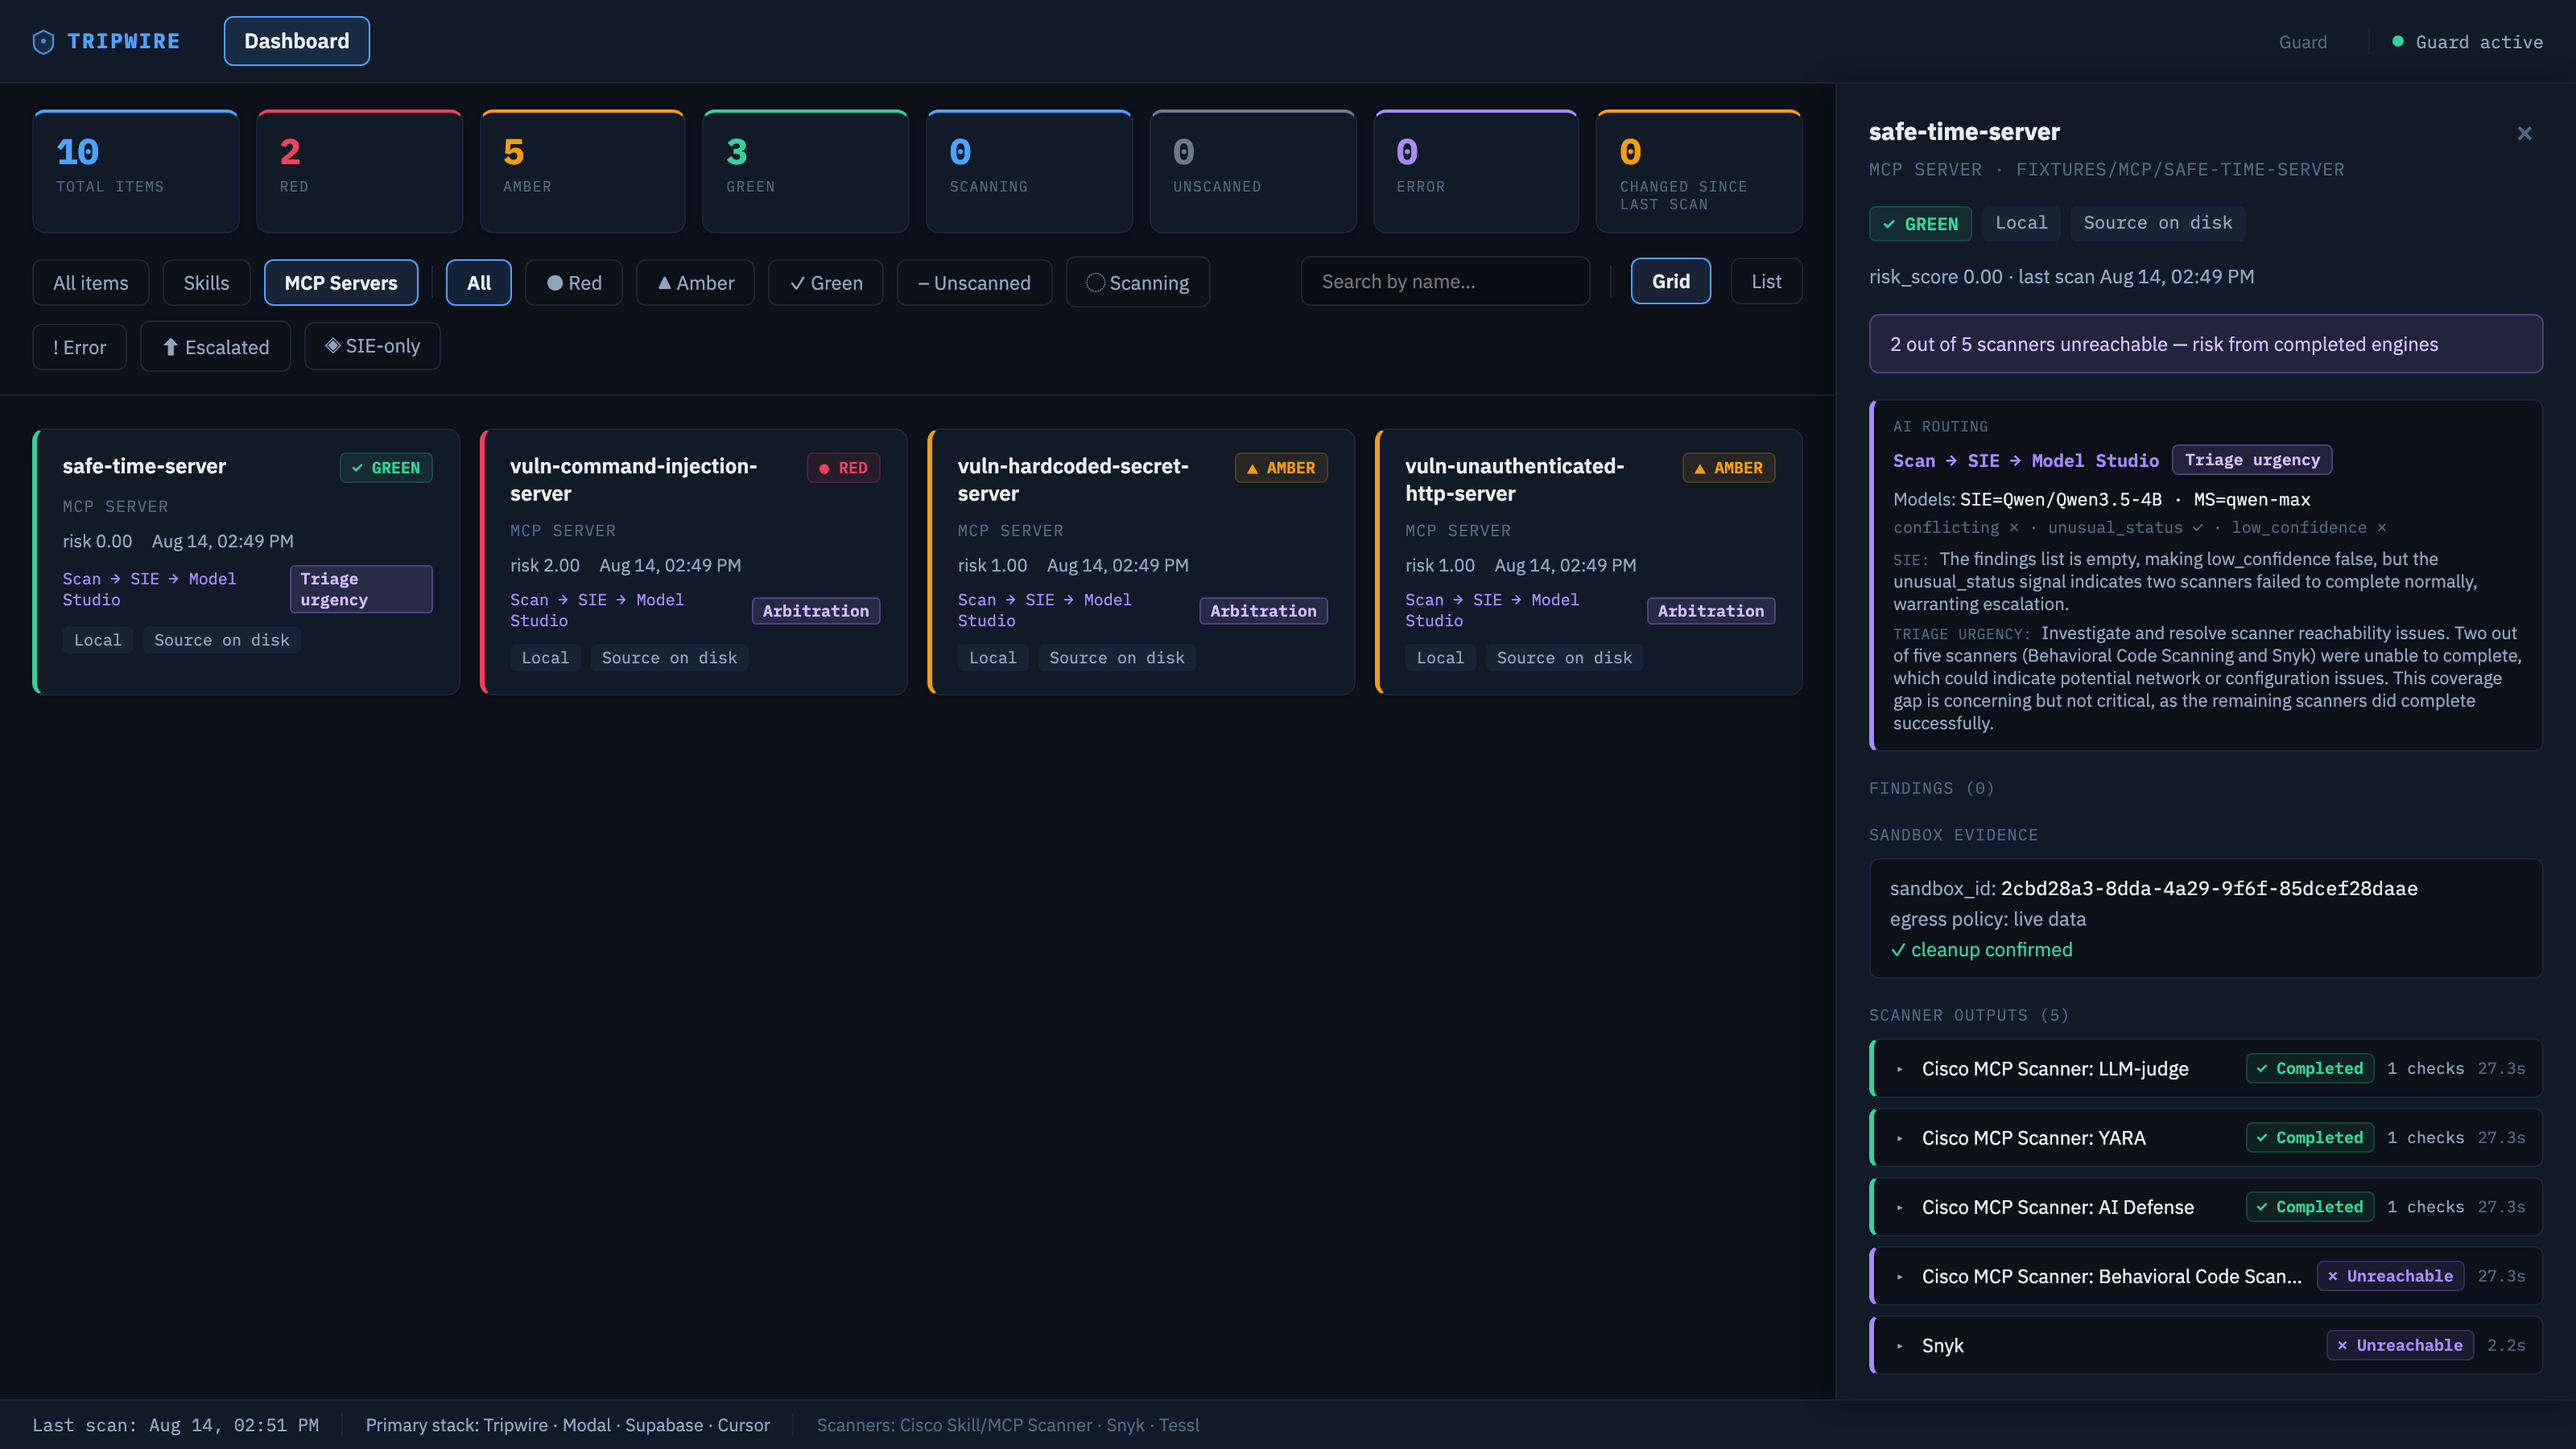
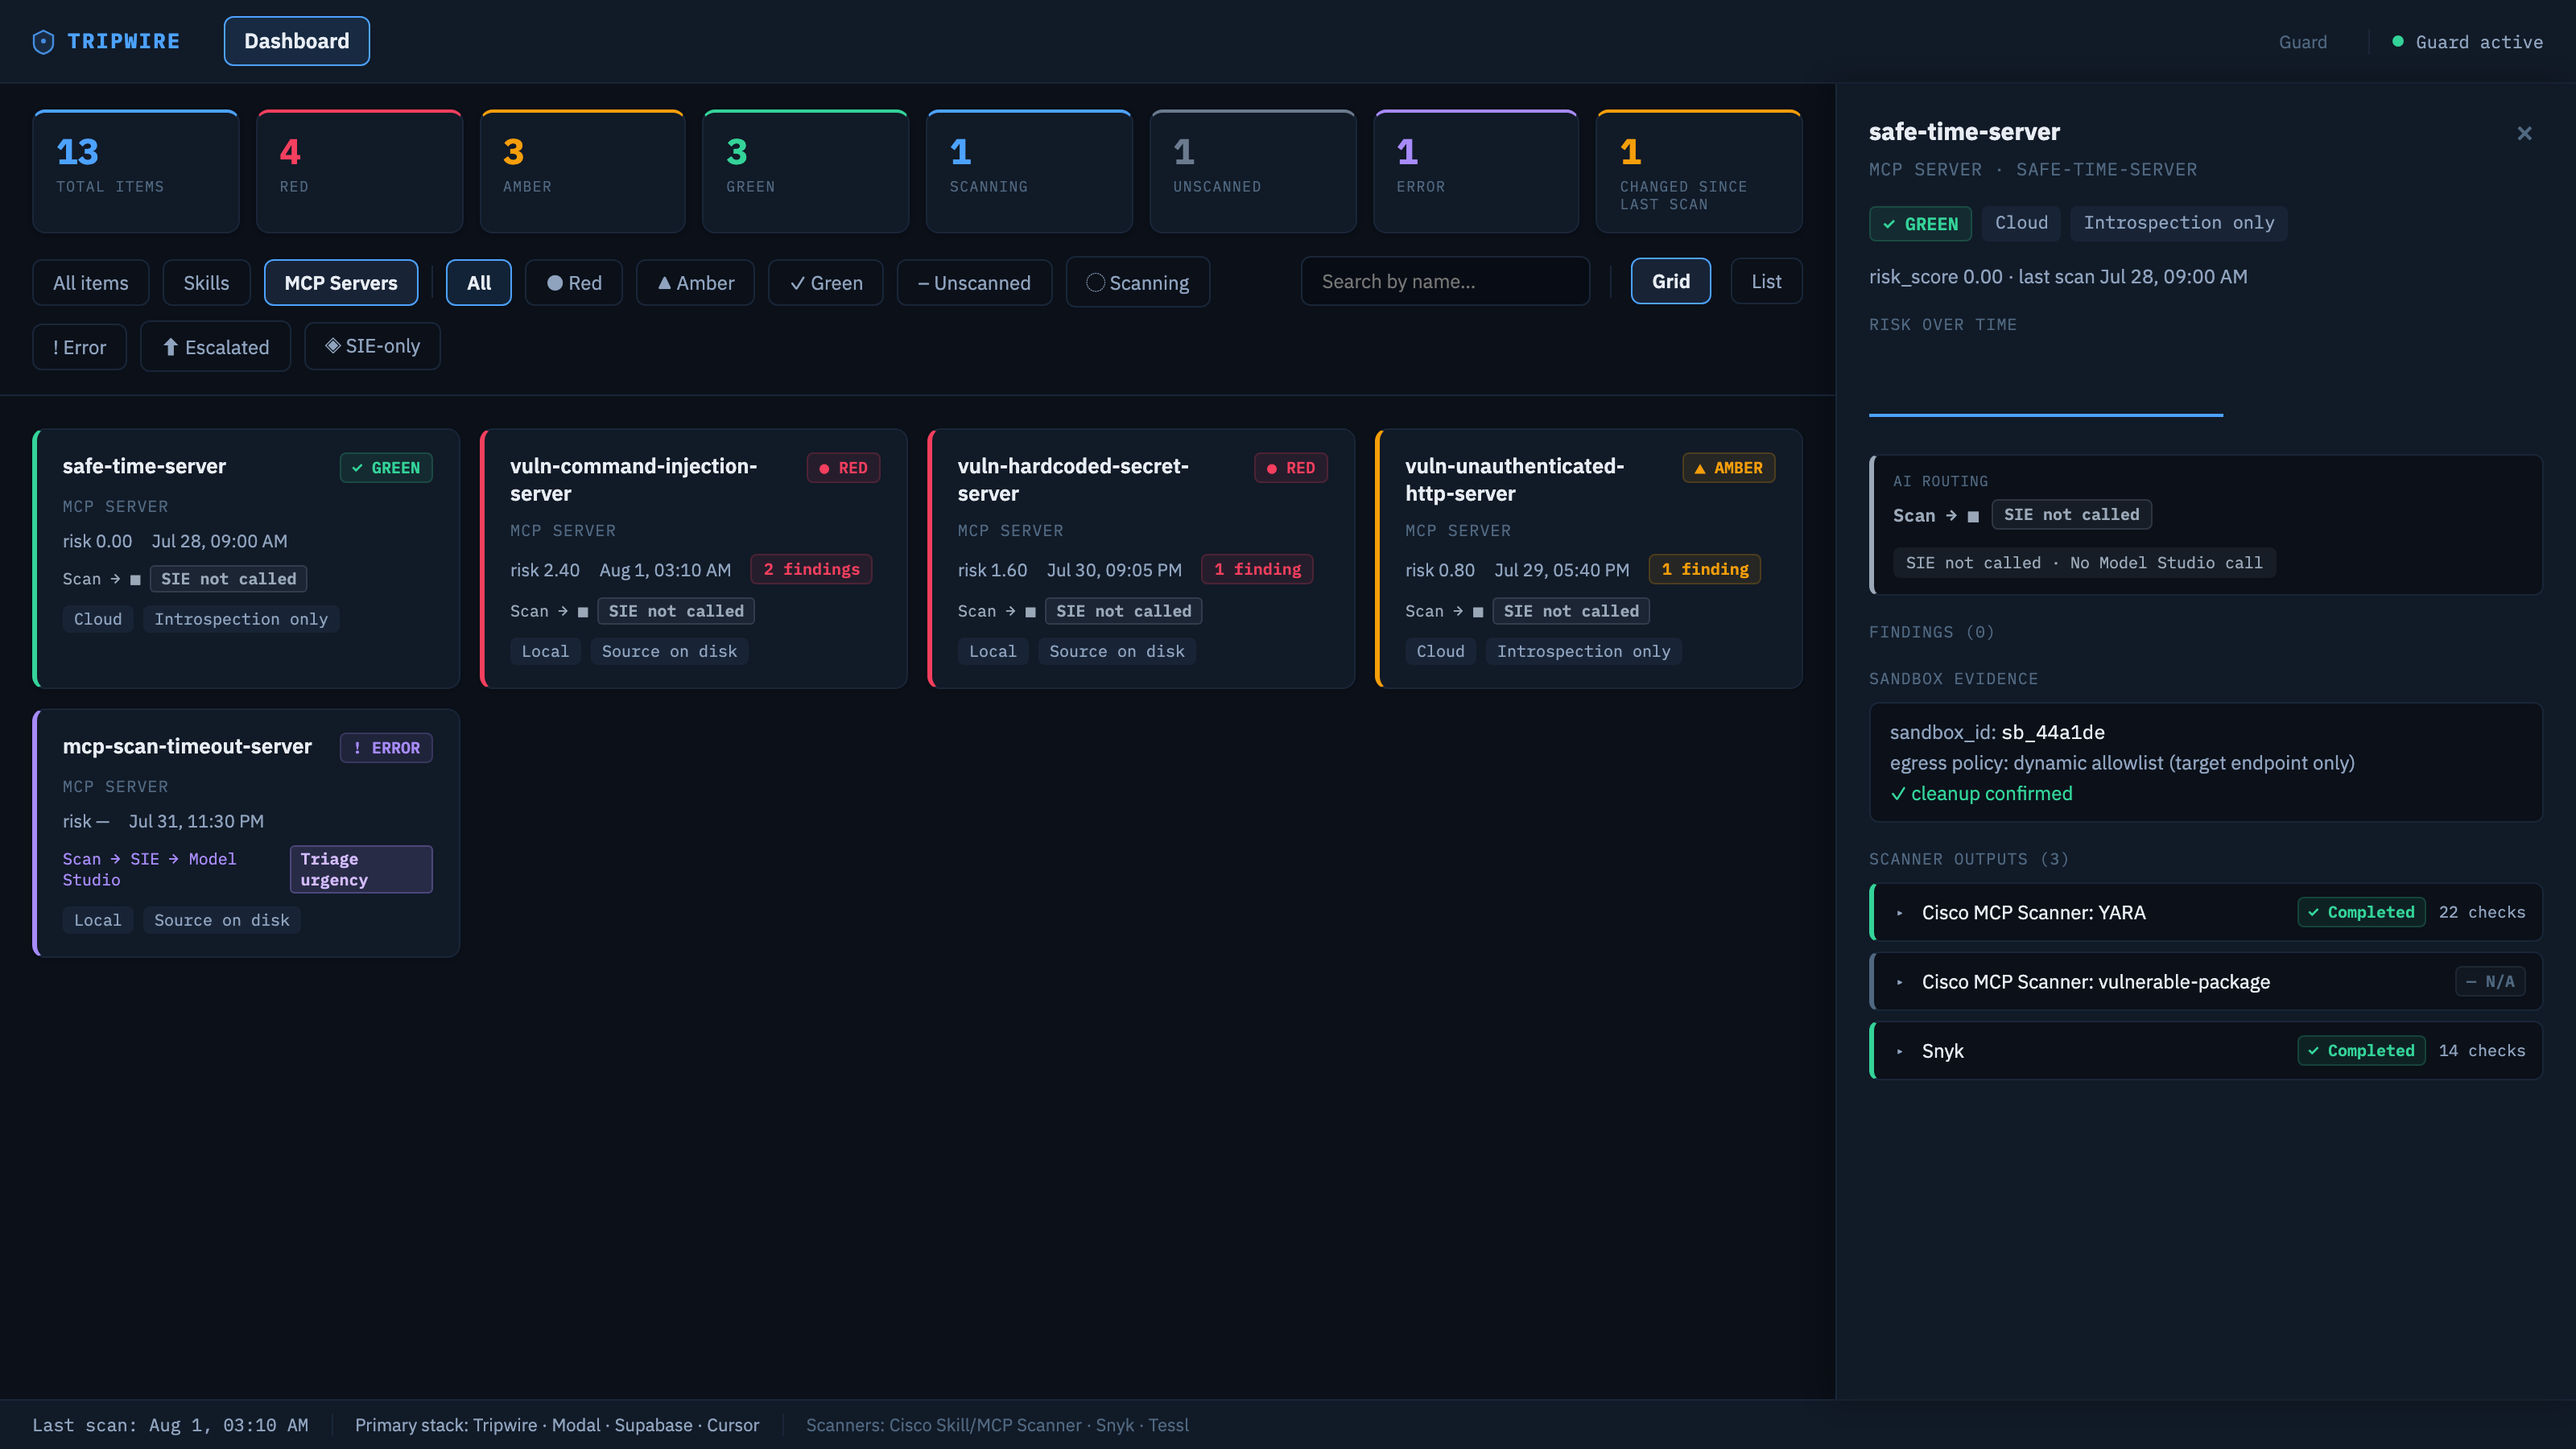
docs(screenshots): refresh gallery from Mock UI and live CLI
Retake CLI and dashboard captures so README thumbnails match current UI,
force Mock in the capture script for stable severity examples, and wire
gallery links into CHANGELOG and docs index.

diff --git a/README.md b/README.md
@@ -128,25 +128,25 @@ flowchart LR
     <a href="docs/screenshots/01-cli/02-cli-real-scan-modal-sandbox.png">
       <img src="docs/screenshots/01-cli/02-cli-real-scan-modal-sandbox.png" width="100%" alt="CLI — real scan with Modal sandbox output">
     </a>
-    <sub><b>CLI scan</b> — Modal sandbox</sub>
+    <sub><b>CLI scan</b> — Modal sandbox (live)</sub>
   </td>
   <td align="center" width="25%">
     <a href="docs/screenshots/02-dashboard/02-dashboard-overview-grid.png">
-      <img src="docs/screenshots/02-dashboard/02-dashboard-overview-grid.png" width="100%" alt="Dashboard overview grid">
+      <img src="docs/screenshots/02-dashboard/02-dashboard-overview-grid.png" width="100%" alt="Dashboard overview grid (Mock demo data)">
     </a>
-    <sub><b>Dashboard</b> — overview grid</sub>
+    <sub><b>Dashboard</b> — Mock overview</sub>
   </td>
   <td align="center" width="25%">
     <a href="docs/screenshots/03-skills/04-red-skill-detail-vuln-prompt-injection.png">
-      <img src="docs/screenshots/03-skills/04-red-skill-detail-vuln-prompt-injection.png" width="100%" alt="Skill detail — prompt injection finding">
+      <img src="docs/screenshots/03-skills/04-red-skill-detail-vuln-prompt-injection.png" width="100%" alt="Skill detail — prompt injection finding (Mock)">
     </a>
-    <sub><b>Skill finding</b> — prompt injection (Red)</sub>
+    <sub><b>Skill finding</b> — Red (Mock)</sub>
   </td>
   <td align="center" width="25%">
     <a href="docs/screenshots/04-mcp-servers/10-red-mcp-detail-vuln-command-injection.png">
-      <img src="docs/screenshots/04-mcp-servers/10-red-mcp-detail-vuln-command-injection.png" width="100%" alt="MCP server detail — command injection finding">
+      <img src="docs/screenshots/04-mcp-servers/10-red-mcp-detail-vuln-command-injection.png" width="100%" alt="MCP server detail — command injection finding (Mock)">
     </a>
-    <sub><b>MCP finding</b> — command injection (Red)</sub>
+    <sub><b>MCP finding</b> — Red (Mock)</sub>
   </td>
 </tr>
 </table>

diff --git a/docs/screenshots/README.md b/docs/screenshots/README.md
@@ -2,9 +2,19 @@
 
 Product UI and CLI captures, grouped by surface. Paths are relative to this folder.
 
+Dashboard / skill / MCP shots use **Mock (demo data)** so Red / Amber / Green
+examples stay stable. CLI shots are live terminal captures from the current CLI.
+
+Regenerate frontend shots with:
+
+```bash
+node scripts/serve-dashboard.mjs   # if not already running on :8765
+node scripts/capture-screenshots.mjs
+```
+
 ## 1. CLI
 
-Discovery and help output from the Tripwire CLI.
+Help output (including `route`) and discovery / live scan feedback.
 
 ### CLI help / dry-discover
 
@@ -18,7 +28,7 @@ Discovery and help output from the Tripwire CLI.
 
 ## 2. Dashboard
 
-Heatmap grid, severity filters, type views, and list layout.
+Heatmap grid, severity filters, type views, and list layout (Mock demo: 13 items).
 
 ### Overview grid
 

diff --git a/CHANGELOG.md b/CHANGELOG.md
@@ -40,6 +40,9 @@ and this project adheres to [Semantic Versioning](https://semver.org/spec/v2.0.0
 - Provider setup guides for optional tiered routing:
   `docs/user-guide/sie-setup.md` and `docs/user-guide/model-studio-setup.md`
   (wired from README, QUICKSTART, docs index, env-vars, prerequisites)
+- Screenshot gallery refreshed: CLI help includes `route`, live Modal scan
+  capture updated, dashboard/skill/MCP shots retaken from Mock demo data;
+  regenerate UI shots with `scripts/capture-screenshots.mjs`
 
 ## [0.3.0] - 2026-08-05
 

diff --git a/docs/README.md b/docs/README.md
@@ -33,6 +33,7 @@ Use this map to move from a safe first look to the level of setup or project det
 | [STATUS.md](./STATUS.md) | Evidence-labelled capability claims |
 | [ARCHITECTURE.md](./ARCHITECTURE.md) | System diagrams, key flows, and repository layout |
 | [adr/README.md](./adr/README.md) | Formal architecture decision records |
+| [screenshots/](./screenshots/README.md) | CLI + dashboard gallery (Mock UI; live CLI captures) |
 | [SECURITY.md](../SECURITY.md) | Vulnerability reporting |
 
 ## Project records
